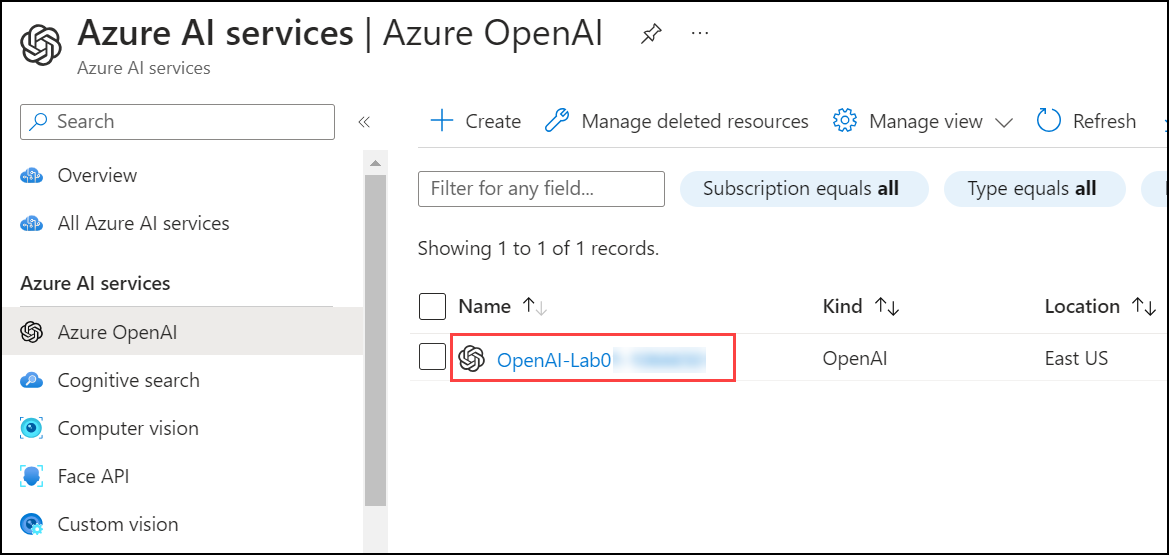
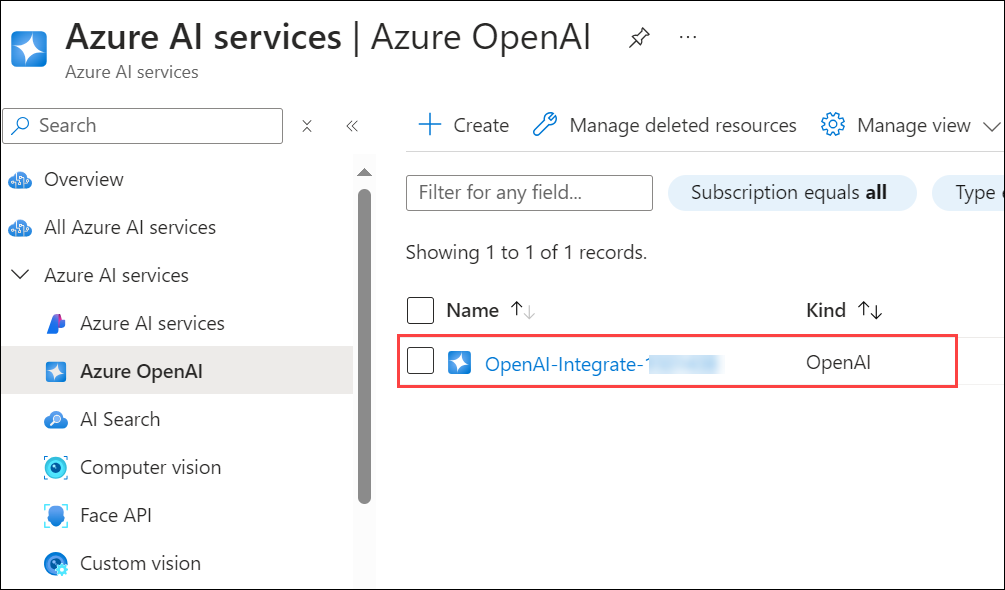
update

diff --git a/Instructions/Labs/Standalone-lab2.md b/Instructions/Labs/Standalone-lab2.md
@@ -20,11 +20,11 @@ In this lab, you will complete the following tasks:
 
 In this task, you'll create an Azure resource in the Azure portal, selecting the OpenAI service and configuring settings such as region and pricing tier. This setup allows you to integrate OpenAI's advanced language models into your applications.
 
-1. In the **Azure portal**, search for **OpenAI** and select **Azure OpenAI**.
+1. In the **Azure portal**, search for **OpenAI (1)** and select **Azure OpenAI (2)**.
 
    ![](../media/openai8.png)
 
-2. On **Azure AI Services | Azure OpenAI** blade, click on **Create**.
+2. On the Azure AI Services page, select **Azure OpenAI (1)** from the menu on the left, then click **Create (2)**.
 
    ![](../media/openai_create1.png)
 
@@ -39,7 +39,7 @@ In this task, you'll create an Azure resource in the Azure portal, selecting the
   
        ![](../media/openai3.png "Create Azure OpenAI resource")
 
-4. Click on **Next** again and subsequently click on **Create**. 
+4. Click on **Next** twice and subsequently click on **Create**. 
 
 5. Once the deployment is complete, click on **Go to resource** to access the deployed Azure OpenAI resource in the Azure portal.
 
@@ -64,21 +64,21 @@ In this task, you'll create an Azure resource in the Azure portal, selecting the
 
 In this task, you'll deploy a specific AI model instance within your Azure OpenAI resource to integrate advanced language capabilities into your applications.
 
-1. In the **Azure portal**, search for **OpenAI** and select **Azure OpenAI**.
+1. In the **Azure portal**, search for **OpenAI (1)** and select **Azure OpenAI (2)**.
 
    ![](../media/openai8.png)
 
-1. On **Azure AI Services | Azure OpenAI** blade, select **OpenAI-Lab02-<inject key="DeploymentID" enableCopy="false"></inject>**.
+1. On **Azure AI Services | Azure OpenAI** blade, select **OpenAI-Integrate-<inject key="DeploymentID" enableCopy="false"></inject>**.
 
    ![](../media/OpenAI_select.png)
 
 1. In the Azure OpenAI resource pane, click on **Go to Azure OpenAI Studio** it will navigate to **Azure AI Studio**.
 
-   ![](../media/openai_studio1.png)
+   ![](../media/go-to-studio.png)
 
-1. In the prompt select **Explore the new experience(1)** .
+1. In the prompt titled **Discover an even better Azure AI Studio experience**, click **Close**.
 
-      ![](../media/explore_new-exp.jpg "Create a new deployment")
+      ![](../media/pop-upclose.png)
 
 1. Select **Deployments (1)** under Shared resources, click on **+ Deploy model** , Choose **Deploy base Model (2)**.
 
@@ -96,7 +96,11 @@ In this task, you'll deploy a specific AI model instance within your Azure OpenA
     - **Enable dynamic quota (5)**: Enabled
     - Click on **Deploy (6)**
   
-      ![](../media/28-08-2024(2).png)
+      ![](../media/i2.png)
+
+      >**Note:** If the options shown in the above screenshot is not visible, click on **Customize**.
+
+      ![](../media/imagecustomize.png)
 
       >**Note** : if the **gpt-35-turbo-16k** model isn't available, choose **gpt-35-turbo**
 
@@ -123,6 +127,10 @@ In this task, you will integrate with an Azure OpenAI model by using a short com
 1. In the [Azure portal](https://portal.azure.com?azure-portal=true), select the **[>_]** (*Cloud Shell*) button at the top of the page to the right of the search box. A Cloud Shell pane will open at the bottom of the portal.
 
     ![Screenshot of starting Cloud Shell by clicking on the icon to the right of the top search box.](../media/cloudshell-launch-portal.png#lightbox)
+
+    >**Note :** If you don't see the Cloud Shell icon, click on the **ellipsis** button and select **Cloud Shell**.
+
+    ![](../media/open1.png)
 
 2. The first time you open the Cloud Shell, you may be prompted to choose the type of shell you want to use (*Bash* or *PowerShell*). Select **Bash**. If you don't see this option, skip the step.
 
@@ -307,6 +315,7 @@ In this task, you will complete key parts of the application to enable it to use
     # Print the response
     print("Response: " + generated_text + "\n")
     ```
+    >**Note**: Make sure to indent the code by eliminating any extra white spaces after pasting it into the code editor.
 
 8. To save the changes made to the file, right-click on the file from the left pane in the code window and hit **Save**
 
@@ -441,6 +450,7 @@ In this task, you will provide a history of the conversation in your prompt to e
     # Print generated text
     print("Summary: " + generated_text + "\n")
     ```
+    >**Note**: Make sure to indent the code by eliminating any extra white spaces after pasting it into the code editor.
 
 6. The final code should look like as shown below:
 
